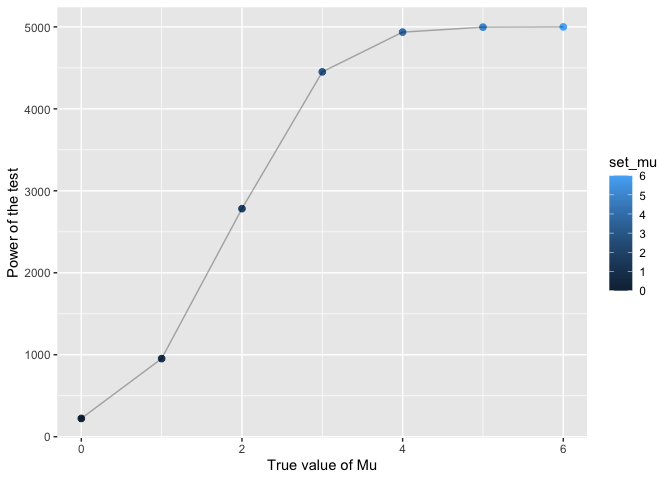
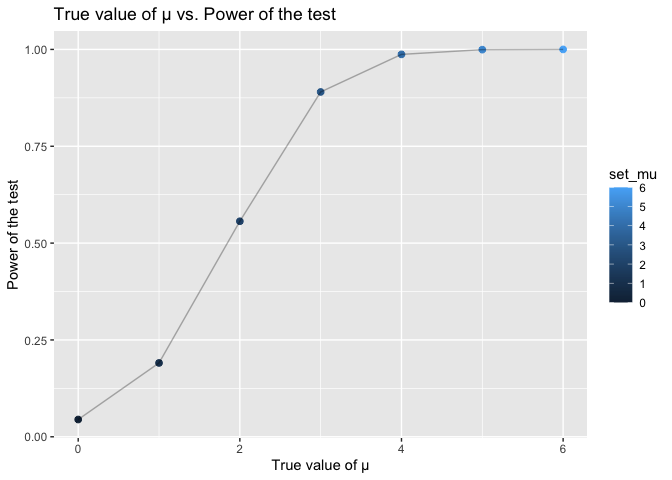
Q3. add plot 2&3, simulation complete

diff --git a/HW5.md b/HW5.md
@@ -138,18 +138,55 @@ combine_dat %>% head()
 power <- data.frame(set_mu = 0:6, rejected = rep(NA,7))
 
 for(i in 1:7) {
-power[i,2] <- combine_dat %>% filter(p_value < 0.05, set_mu == (i-1)) %>% count()
+power[i,2] <- combine_dat %>% filter(p_value < 0.05, set_mu == (i-1)) %>% count() 
+power[i,2] = power[i,2]/5000
 }
 
 power_plot = power %>% ggplot(aes(x = set_mu, y = rejected)) +
   geom_point(aes(color = set_mu), size = 2) +
   geom_line(alpha = 0.3) +
-  labs(x = "True value of Mu",
-       y = "Power of the test")
+  labs(x = "True value of μ",
+       y = "Power of the test") +
+  ggtitle("True value of μ vs. Power of the test")
 
 power_plot
 ```
 
 ![](HW5_files/figure-gfm/sim%20plot-1.png)<!-- -->
 
-#### We can see form the plot that as the true value of Mu increase, power of the test increases. Therefore as the effect size increases, the power od the test increases.
+#### We can see form the plot that as the true value of Mu increase, power of the test increases. Therefore as the effect size increases, the power of the test increases.
+
+``` r
+estimated_mu <- combine_dat %>% group_by(set_mu) %>% summarise(mean = mean(mu_hat))
+
+rejected_only <- combine_dat %>% filter(p_value < 0.05) %>% group_by(set_mu) %>% summarise(mean = mean(mu_hat))
+
+estimated_mu_plot <- estimated_mu %>% ggplot(aes(x = set_mu, y = mean)) +
+  geom_point(aes(color = set_mu), size = 2) +
+  geom_line(alpha = 0.3) +
+  labs(x = "True value of μ",
+       y = "Average estimate of μ̂")+
+  ggtitle("True value of μ vs. Average estimate of μ in all simulations")
+
+
+rejected_only_estimated_mu_plot <- rejected_only %>% ggplot(aes(x = set_mu, y = mean)) +
+  geom_point(aes(color = set_mu), size = 2) +
+  geom_line(alpha = 0.3) +
+  labs(x = "True value of μ",
+       y = "Average estimate of μ̂")+
+  ggtitle("True value of μ vs. Average estimate of μ in samples for which the null was rejected")
+```
+
+``` r
+estimated_mu_plot
+```
+
+![](HW5_files/figure-gfm/show%20plot-1.png)<!-- -->
+
+``` r
+rejected_only_estimated_mu_plot
+```
+
+![](HW5_files/figure-gfm/show%20plot-2.png)<!-- -->
+
+#### The sample average of μ̂ across tests for which the null is rejected do not approximately equal to the true value of μ when μ is below 4. This is because the power of the test increases as effect size increases, there are more proportion of times the null was rejected as μ increases. Thus, sample average of μ̂ across tests for which the null is rejected approximately equal to the true value of μ when μ is greater.
